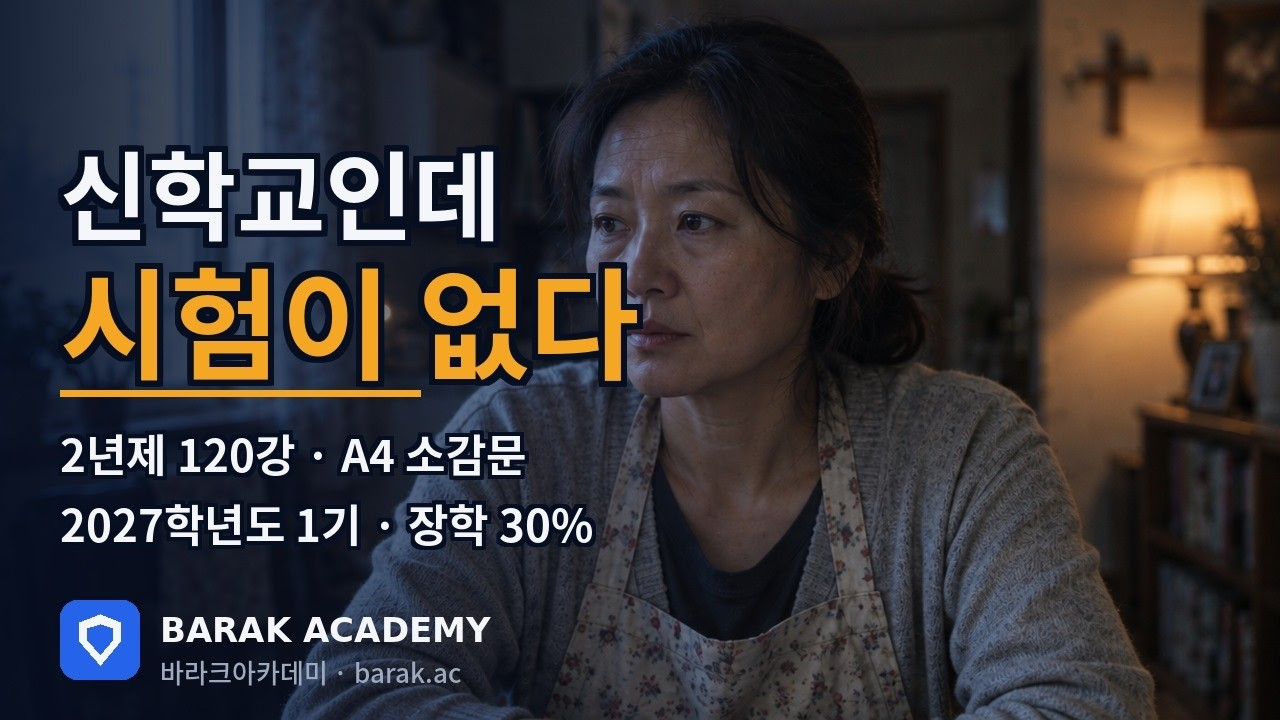
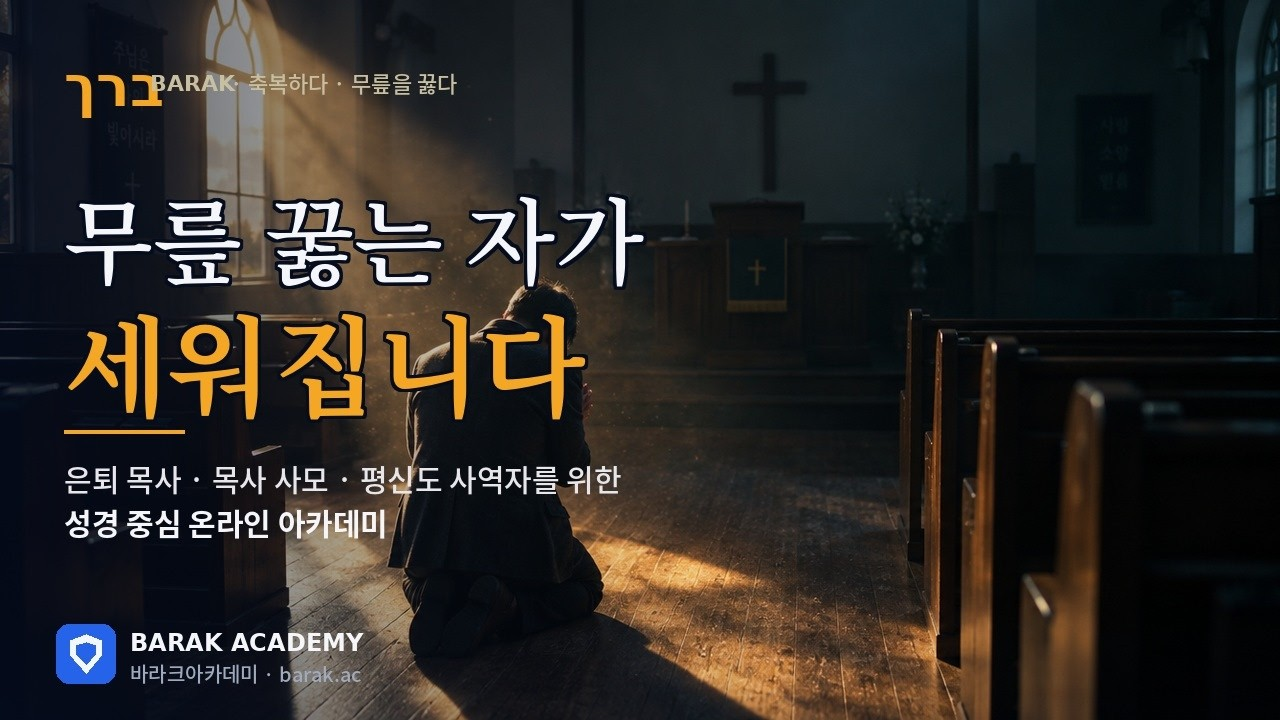
feat: 바라크아카데미 공식 유튜브 홍보영상 교체 (91D2odqEcRo)

diff --git a/src/components/features/video/PromoVideoModal.tsx b/src/components/features/video/PromoVideoModal.tsx
@@ -15,7 +15,7 @@ interface PromoVideoModalProps {
 export function PromoVideoModal({
   isOpen,
   onClose,
-  videoId = "tGMVYSRAVP8",
+  videoId = "91D2odqEcRo",
   title = "바라크아카데미 공식 홍보영상",
 }: PromoVideoModalProps) {
   // ESC 키로 닫기 지원 & 스크롤 방지

diff --git a/src/app/page.tsx b/src/app/page.tsx
@@ -676,7 +676,7 @@ export default function LandingPage() {
       <PromoVideoModal
         isOpen={isPromoOpen}
         onClose={() => setIsPromoOpen(false)}
-        videoId="tGMVYSRAVP8"
+        videoId="91D2odqEcRo"
         title="바라크아카데미 공식 홍보영상"
       />
 
